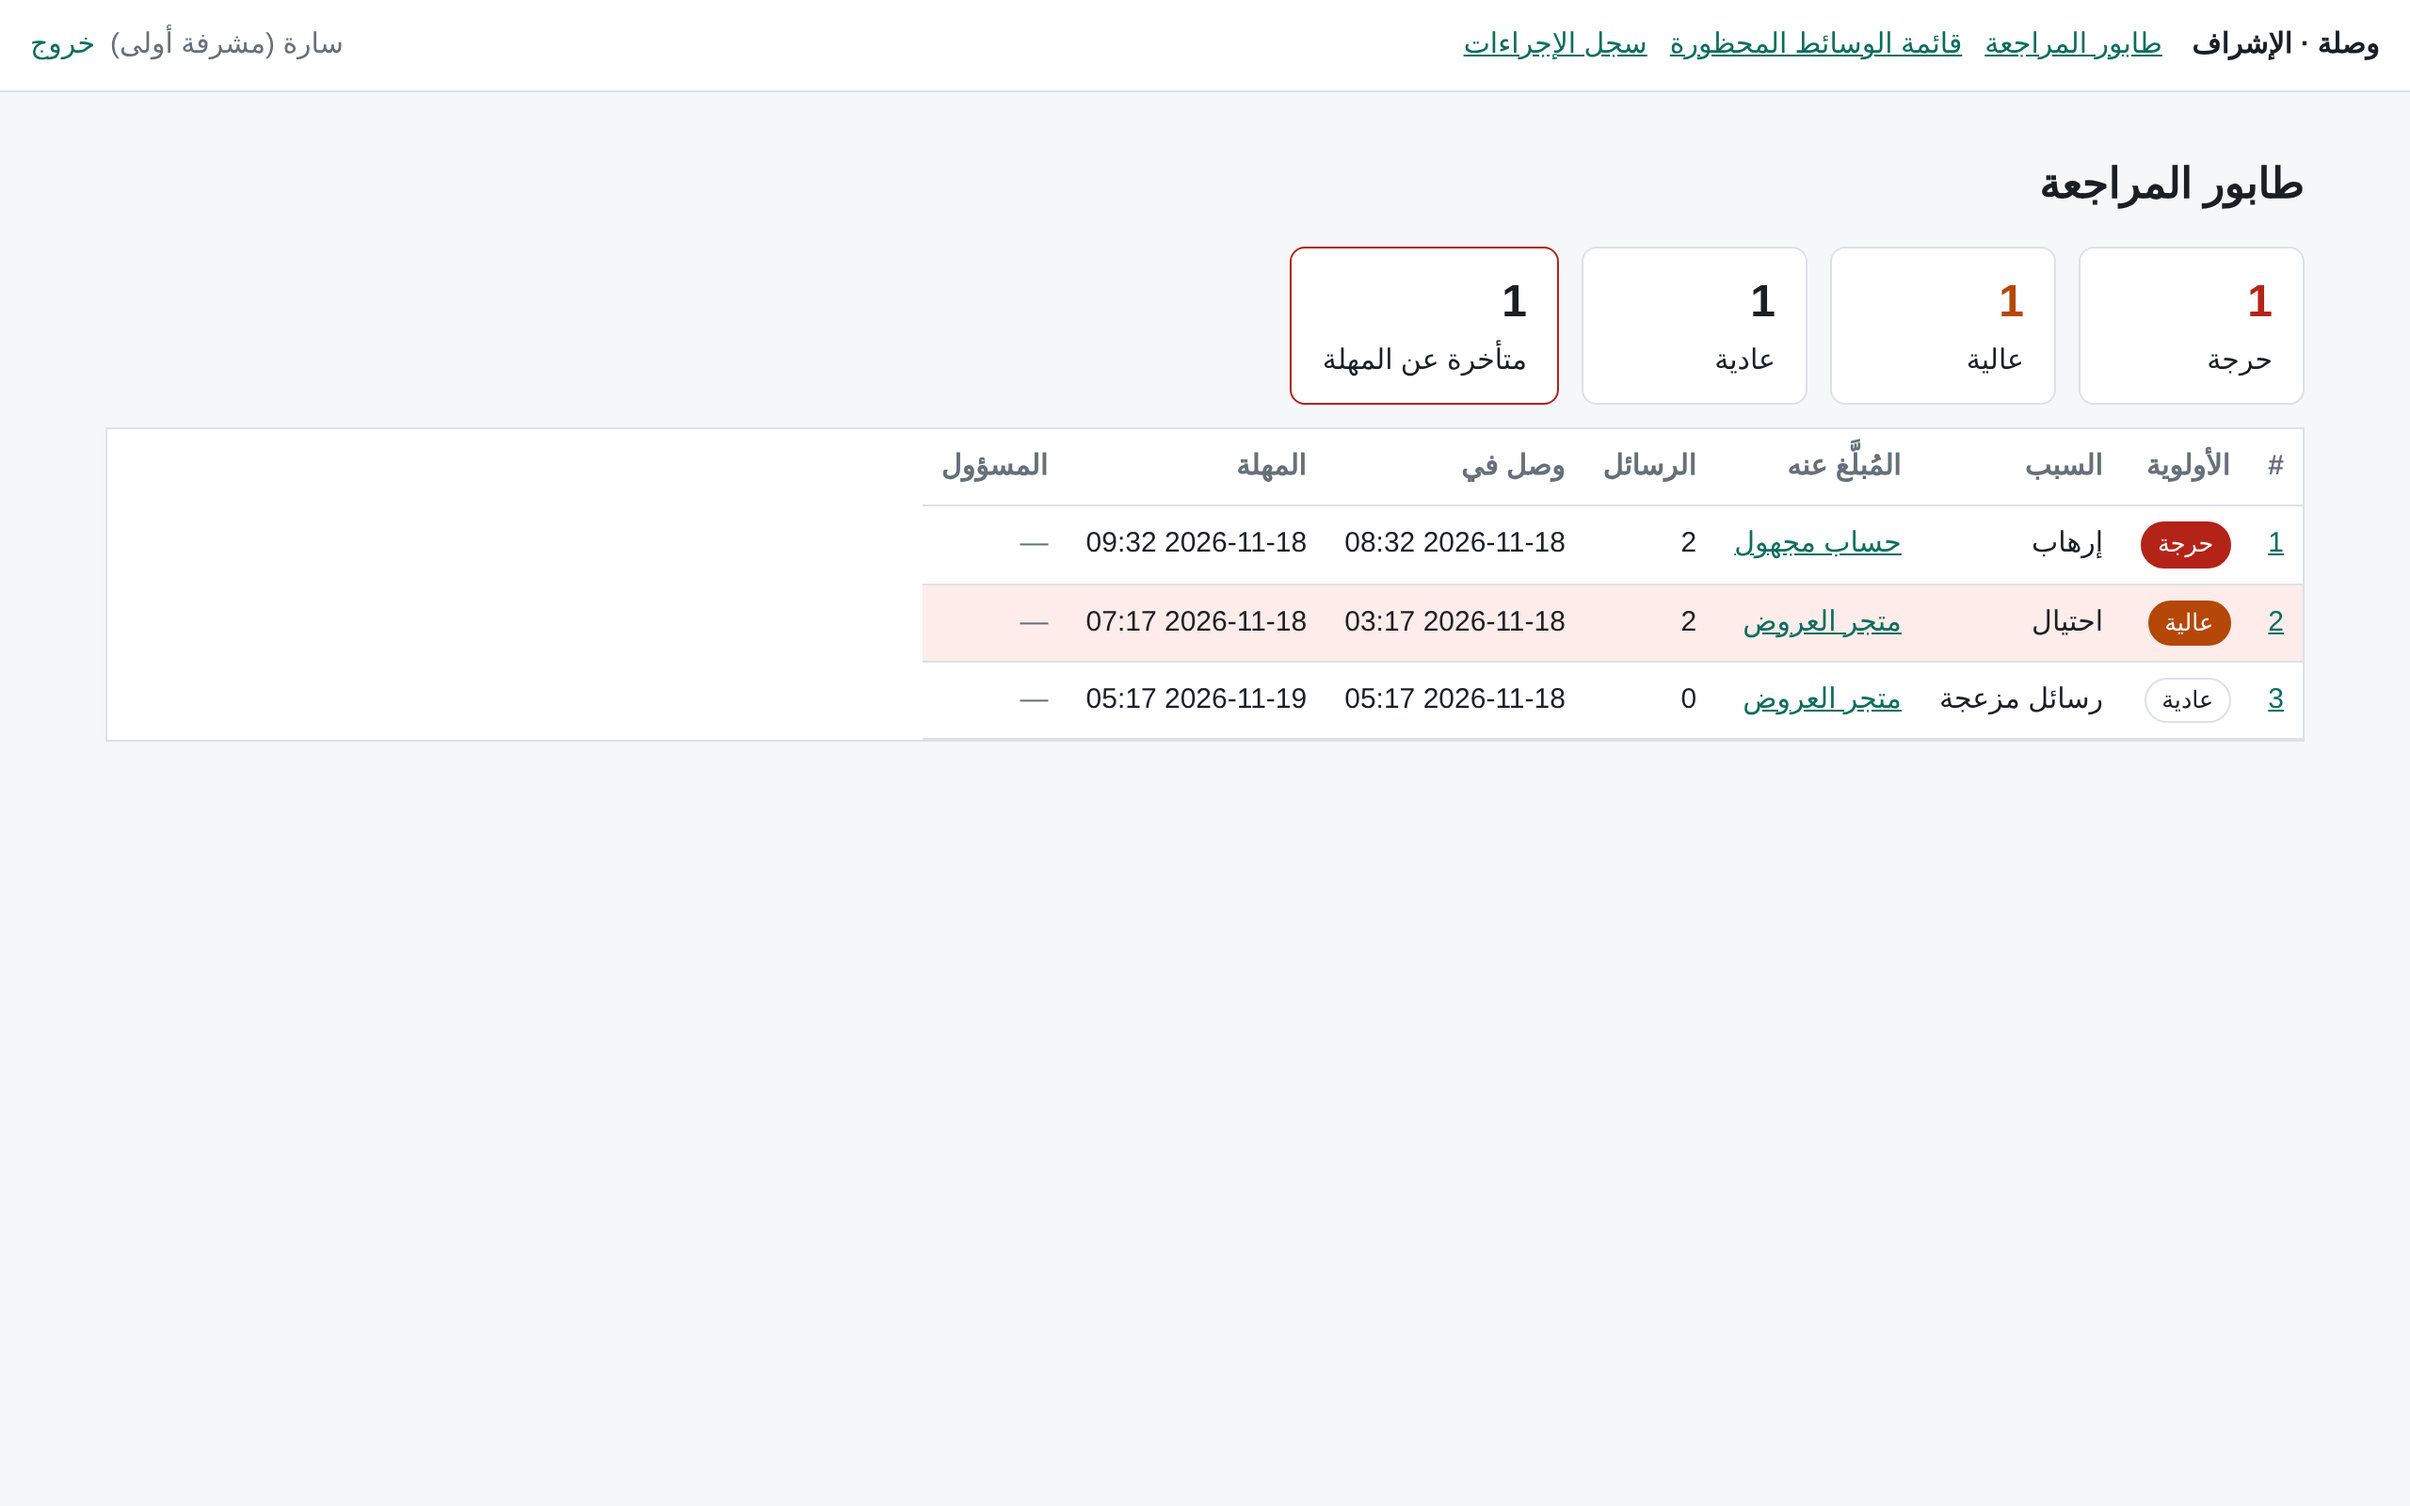
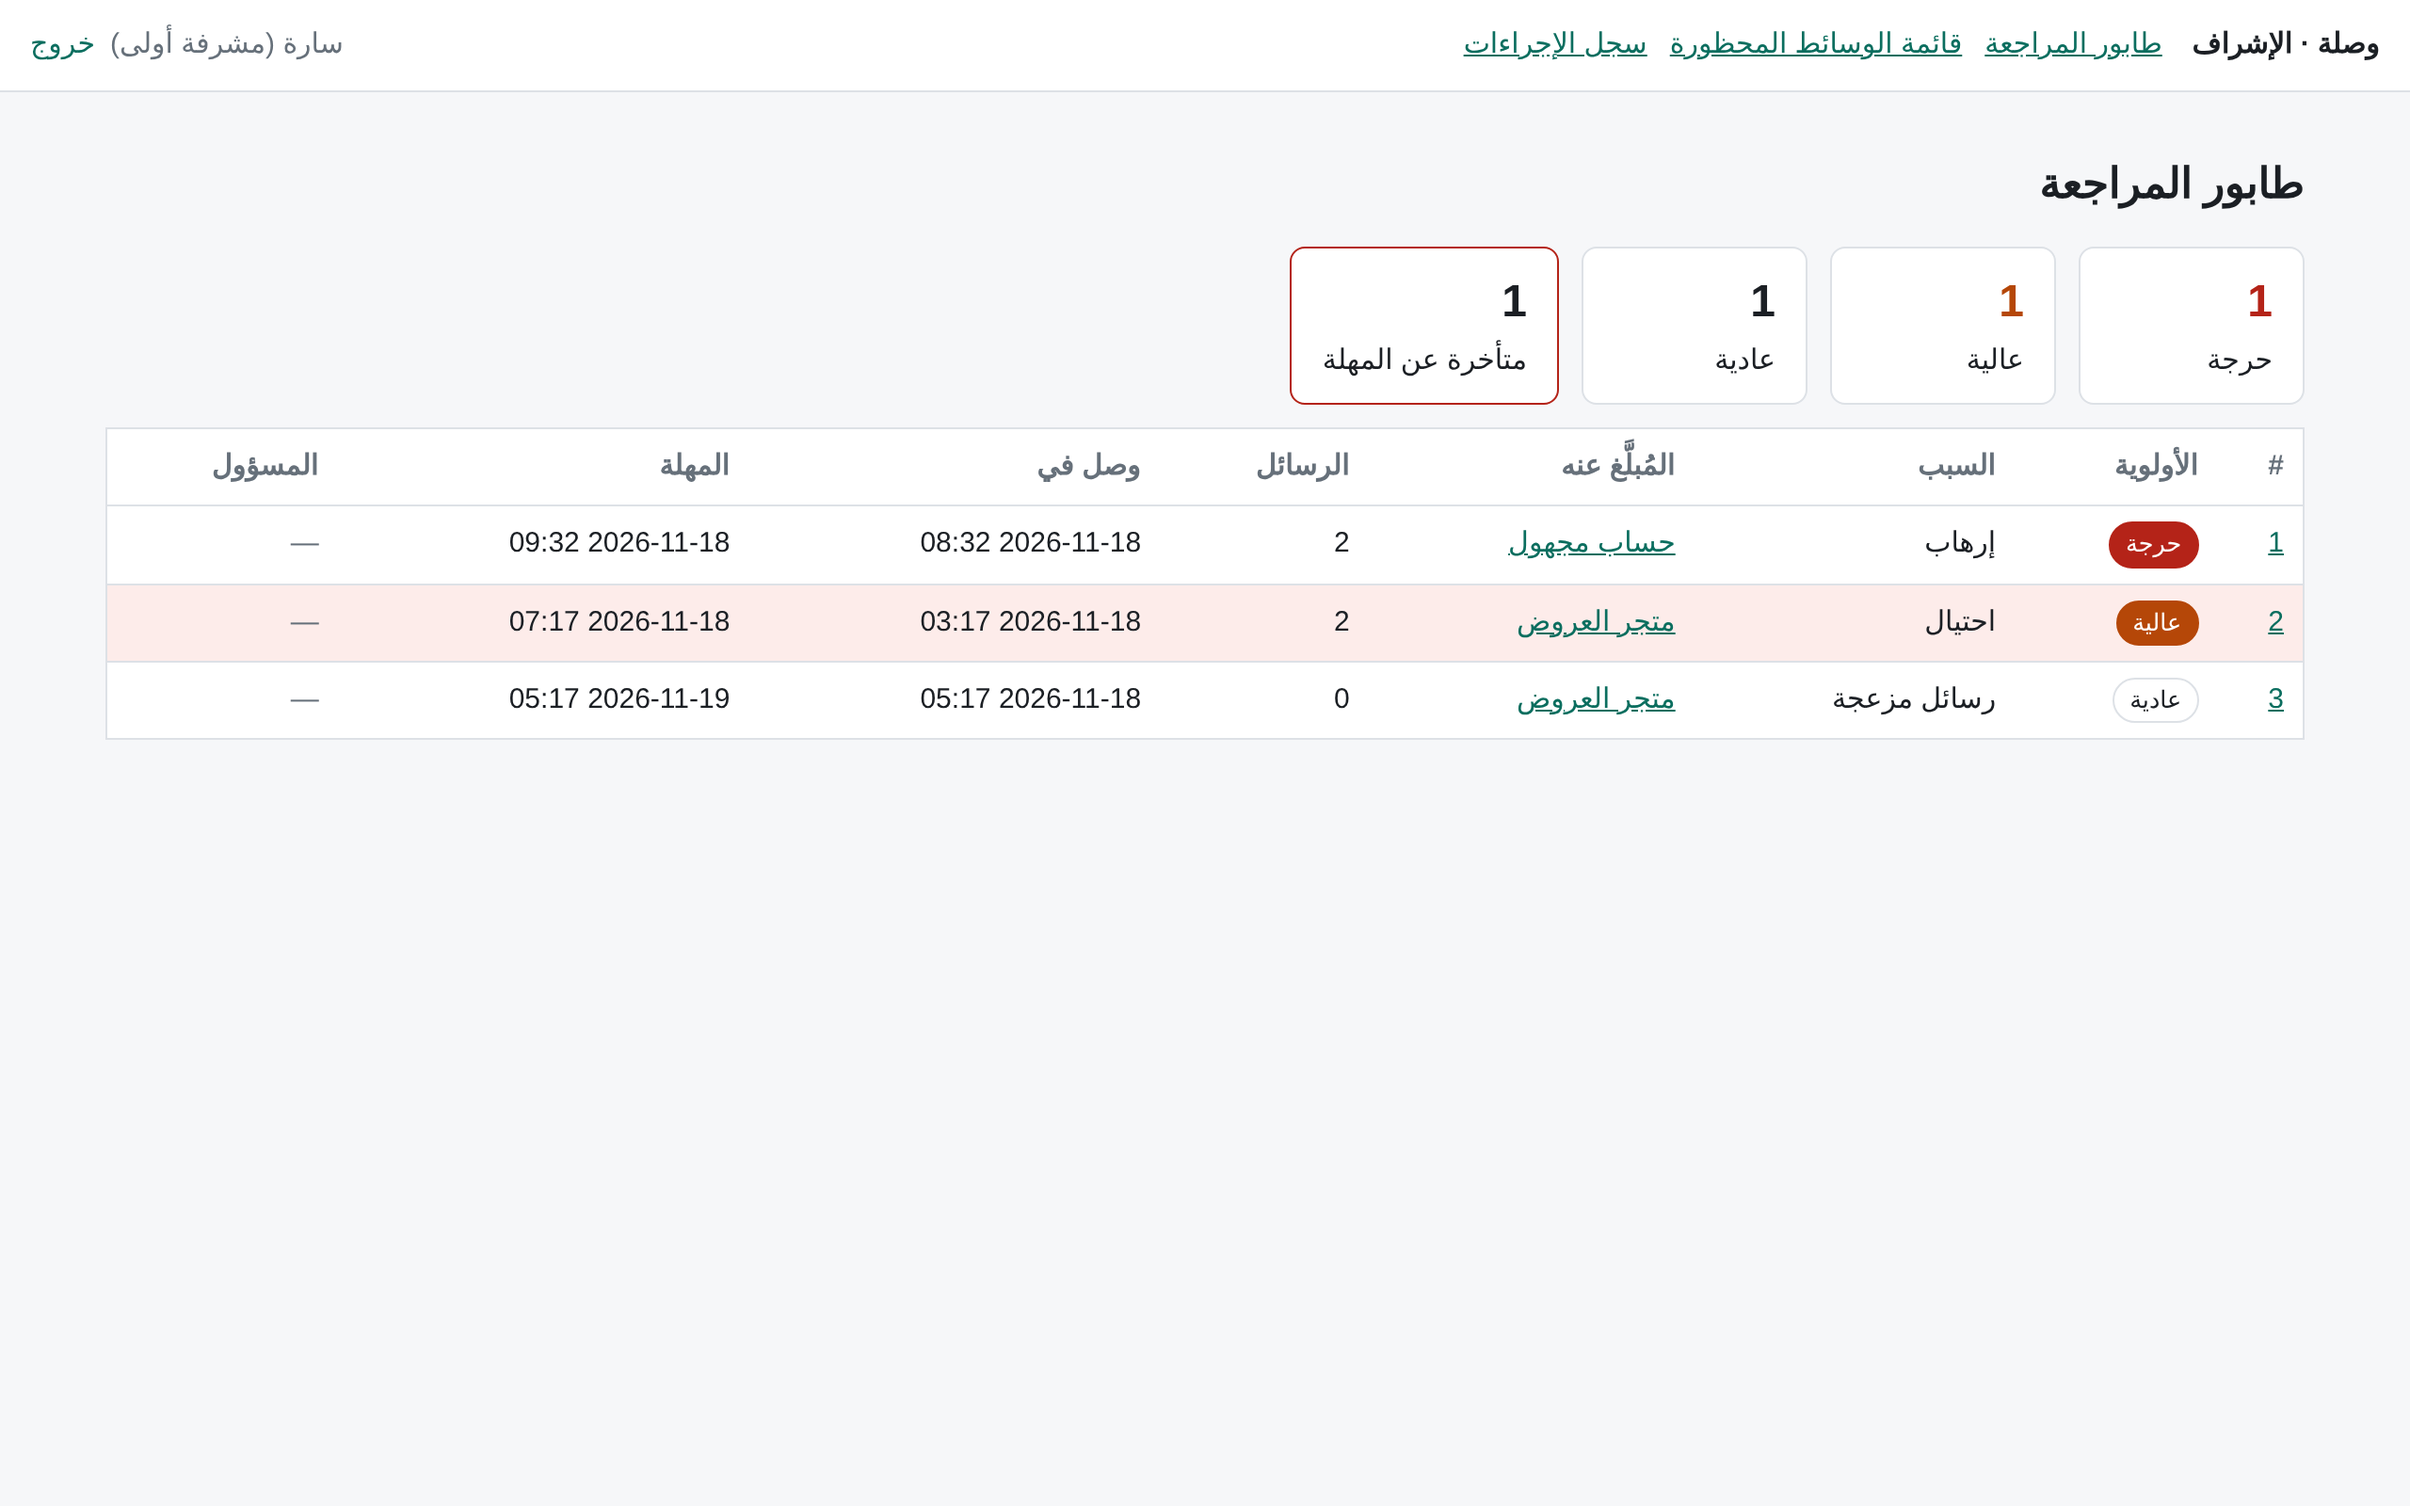
Admin panel: full-width tables, label private chats in evidence; refresh screenshots
Claude-Session: https://claude.ai/code/session_01GsZkBzLAJ7d2M7pezkPGYs

diff --git a/backend/internal/moderation/templates/report.html b/backend/internal/moderation/templates/report.html
@@ -17,7 +17,7 @@
 </section>
 
 <h2>الأدلة (نسخة محفوظة وقت البلاغ)</h2>
-{{with .Evidence.Chat}}<p>المحادثة: <bdi>{{.Title}}</bdi> · رقم {{.ID}} · {{.MemberCount}} عضو</p>{{end}}
+{{with .Evidence.Chat}}<p>المحادثة: {{if .Title}}<bdi>{{.Title}}</bdi> · {{else if eq .Type 1}}محادثة خاصة · {{end}}رقم {{.ID}} · {{.MemberCount}} عضو</p>{{end}}
 {{if .Evidence.Messages}}
 <table>
   <thead><tr><th>رقم الرسالة</th><th>المرسل</th><th>التاريخ</th><th>النص</th><th>وسائط</th></tr></thead>
